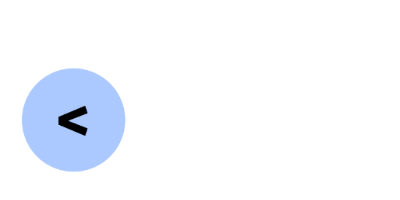
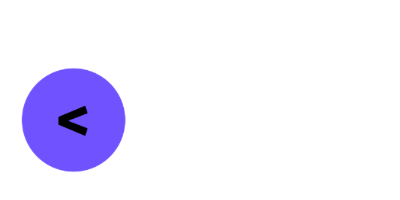
theme change+mania overhaul

Changed region(s): [[0.03, 0.33, 0.33, 0.87]]

diff --git a/src/mania.py b/src/mania.py
@@ -15,12 +15,18 @@ def note(main_color):
     
     return outer
 
+colors = {
+    "1": "#ACC9FF",
+    "2": "#7B6CF0",
+    "S": "#FFABF7"
+}
+
 def create_mania():
-    inner = note("#ACC9FF")
-    outer = note("#FFE1AB")
-    special = note("#FFABF7")
+    inner = note(colors["2"])
+    outer = note(colors["1"])
+    special = note(colors["S"])
     rec = Image.open("assets/gameplay/mania/rec.png")
-    rec_held = Image.open("assets/gameplay/mania/rec_held.png")
+    rec_held_overlay = Image.open("assets/gameplay/mania/rec_held.png")
     
     hold = Image.open("assets/gameplay/mania/hold.png")
     hold_end = Image.open("assets/gameplay/mania/hold_end.png")
@@ -39,7 +45,11 @@ def create_mania():
     
     for i in "12S":
         utils.save_hd_sd(rec,f"build/mania-key{i}.png")
-        utils.save_hd_sd(rec_held,f"build/mania-key{i}D.png")
+        this_rec_held_overlay = rec_held_overlay.copy()
+        this_rec = rec.copy()
+        utils.tint_image(this_rec_held_overlay,Color(colors[i]).convert("srgb").coords())
+        this_rec.paste(this_rec_held_overlay,(0,0),this_rec_held_overlay)
+        utils.save_hd_sd(this_rec,f"build/mania-key{i}D.png")
         
         utils.save_hd_sd(hold,f"build/mania-note{i}L.png")
         utils.save_hd_sd(hold_end,f"build/mania-note{i}T.png")
